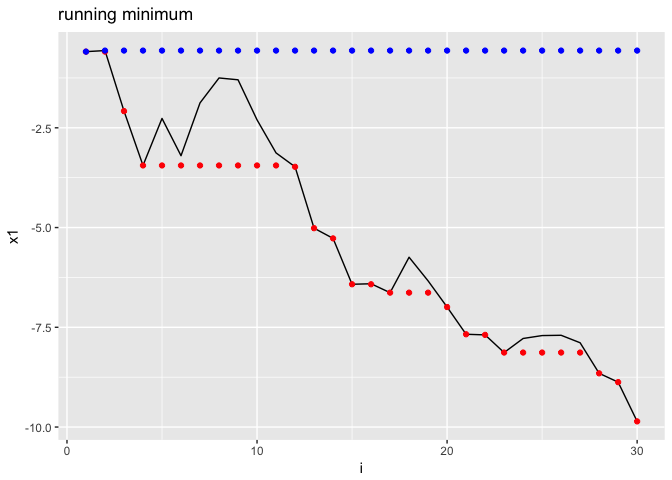
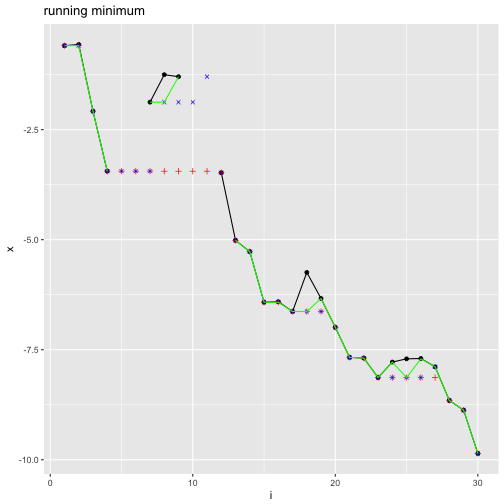
readme

diff --git a/README.md b/README.md
@@ -2,8 +2,9 @@
 -   [Runner](#runner)
     -   [Installation](#installation)
     -   [Examples](#examples)
-        -   [window\_run](#window_run)
-        -   [min\_run and max\_run](#min_run-and-max_run)
+        -   [Creating windows](#creating-windows)
+        -   [Running aggregations](#running-aggregations)
+        -   [Running indexes](#running-indexes)
 
 <!-- README.md is generated from README.Rmd. Please edit that file -->
 Runner
@@ -11,7 +12,7 @@ Runner
 
 [![Travis-CI Build Status](https://travis-ci.org/elo2zero/runner.svg?branch=master)](https://travis-ci.org/elo2zero/runner) [![MIT License](https://badges.frapsoft.com/os/mit/mit.svg)](https://opensource.org/licenses/mit-license.php) [![Coverage status](https://codecov.io/gh/elo2zero/runner/branch/master/graph/badge.svg)](https://codecov.io/github/elo2zero/runner?branch=master)
 
-Running functions for R vector writen in Rcpp
+Running functions for R vector written in Rcpp
 
 Installation
 ------------
@@ -21,57 +22,96 @@ You can install runner from github with:
 Examples
 --------
 
-The main idea of the package is to provide running operations on R vectors. Running functions are these which are applied to all elements up to actual one. Typical example implemented already in `base` are `cumsum`, `cummean`, `cummin` etc. Functions provided in this package works similar but with extended functionality such as handling `NA` and custom window size. Most functions provided in package are basing on the same logic 1. `k` window size denotes number of elements from i-th backwards, where functions are calculated.
-(obrazek pokazujący ruchome okno) 2. `na_rm` handling missing equivalent to `na.rm`. In case of running functions, `NA` is replaced with last finite value. 3. `na_pad` if window size exceeds number of available elements, than first `k-1` are filled with `NA`. 4. `which` In case of running index
+The main idea of the package is to provide running operations on R vectors. Running functions are these which are applied to all elements up to actual one. For example implemented already in `base` `cumsum`, `cummin` etc. Functions provided in this package works similar but with extended functionality such as handling `NA` and custom window size. Most functions provided in package are based on the same logic
+1. `k` window size denotes number of elements from i-th backwards, where functions are calculated.
+(obrazek pokazujący ruchome okno)
+2. `na_rm` handling missing equivalent to `na.rm`. In case of running functions, `NA` is replaced with last finite value.
+3. `na_pad` if window size exceeds number of available elements, than first `k-1` are filled with `NA`.
+4. `which` In case of running index, which value ('first' or 'last')
 
-### window\_run
+### Creating windows
 
 Function creates list of windows. Because `runner` doesn't provide limited functionality, one can calculate own running-window-statistics oneself.
 
-    #> [[1]]
-    #> [1] 1
-    #> 
-    #> [[2]]
-    #> [1] 1 2
-    #> 
-    #> [[3]]
-    #> [1] 1 2 3
-    #> 
-    #> [[4]]
-    #> [1] 2 3 4
-    #> 
-    #> [[5]]
-    #> [1] 4 5
+``` r
+library(runner)
+library(magrittr)
+set.seed(11)
+x1    <- 1:5
+k     <- c(1,2,3,3,2)
+
+window_run( x1, k = k )
+#> [[1]]
+#> [1] 1
+#> 
+#> [[2]]
+#> [1] 1 2
+#> 
+#> [[3]]
+#> [1] 1 2 3
+#> 
+#> [[4]]
+#> [1] 2 3 4
+#> 
+#> [[5]]
+#> [1] 4 5
+```
 
 Such windows can be used in further calculations, with any R function.
 
-    #> [1] 1 3 6 9 9
-
-### min\_run and max\_run
-
 ``` r
-library(ggplot2)
-set.seed(11)
-x1 <- rnorm( 30 ) %>% cumsum
-x2 <- sample( c( rep(NA,10), rnorm(20)) ) %>% cumsum
-k  <- sample( 1:4, 30, replace=TRUE) %>% cumsum
-
-min1 <- min_run(x1)
-min2 <- min_run(x2, na_rm = TRUE)
-min3 <- min_run(x2, na_rm = TRUE, k=4)
-min4 <- min_run(x2, na_rm = FALSE, k=k)
-
-max1 <- max_run(x1)
-max2 <- max_run(x2, na_rm = TRUE)
-max3 <- max_run(x2, na_rm = TRUE, k=4)
-max4 <- max_run(x2, na_rm = FALSE, k=k)
-
-data.frame( x1, min1, i = 1:30) %>%
-  ggplot(aes(x=i, y=x1)) +
-  geom_line() +
-  geom_point(aes(y = min1), color="red") +
-  geom_point(aes(y = max1), color="blue") +
-  ggtitle("running minimum")
+window_run( x1, k = k ) %>%
+  lapply(sum) %>%
+  unlist
+#> [1] 1 3 6 9 9
 ```
 
-![](README-min_run_example-1.png)
+### Running aggregations
+
+Runner provides basic aggregation method calculated within running windows. By default missing values are removed before calculations (`na_rm=TRUE`).
+
+``` r
+set.seed(11)
+x <- rnorm( 30 ) %>% cumsum
+x[c(5,6,10,11)] <- NA
+
+k  <- sample( 2:5, 30, replace=TRUE)
+```
+
+#### min\_run
+
+``` r
+min1 <- min_run(x)
+min2 <- min_run(x, k=4)
+min3 <- min_run(x, k=k, na_rm = FALSE)
+```
+
+![](README-plot_min_run-1.png)
+
+\`\`\`
+
+#### max\_run
+
+``` r
+max1 <- max_run(x)
+max2 <- max_run(x, k=4)
+max3 <- max_run(x, k=k, na_rm = FALSE)
+```
+
+#### mean\_run
+
+``` r
+mean1 <- mean_run(x)
+mean2 <- mean_run(x, k=4)
+mean3 <- mean_run(x, k=k, na_rm = FALSE)
+```
+
+#### sum\_run
+
+``` r
+sum1 <- sum_run(x)
+sum2 <- sum_run(x, k=4)
+sum3 <- sum_run(x, k=k, na_rm = FALSE)
+```
+
+### Running indexes
